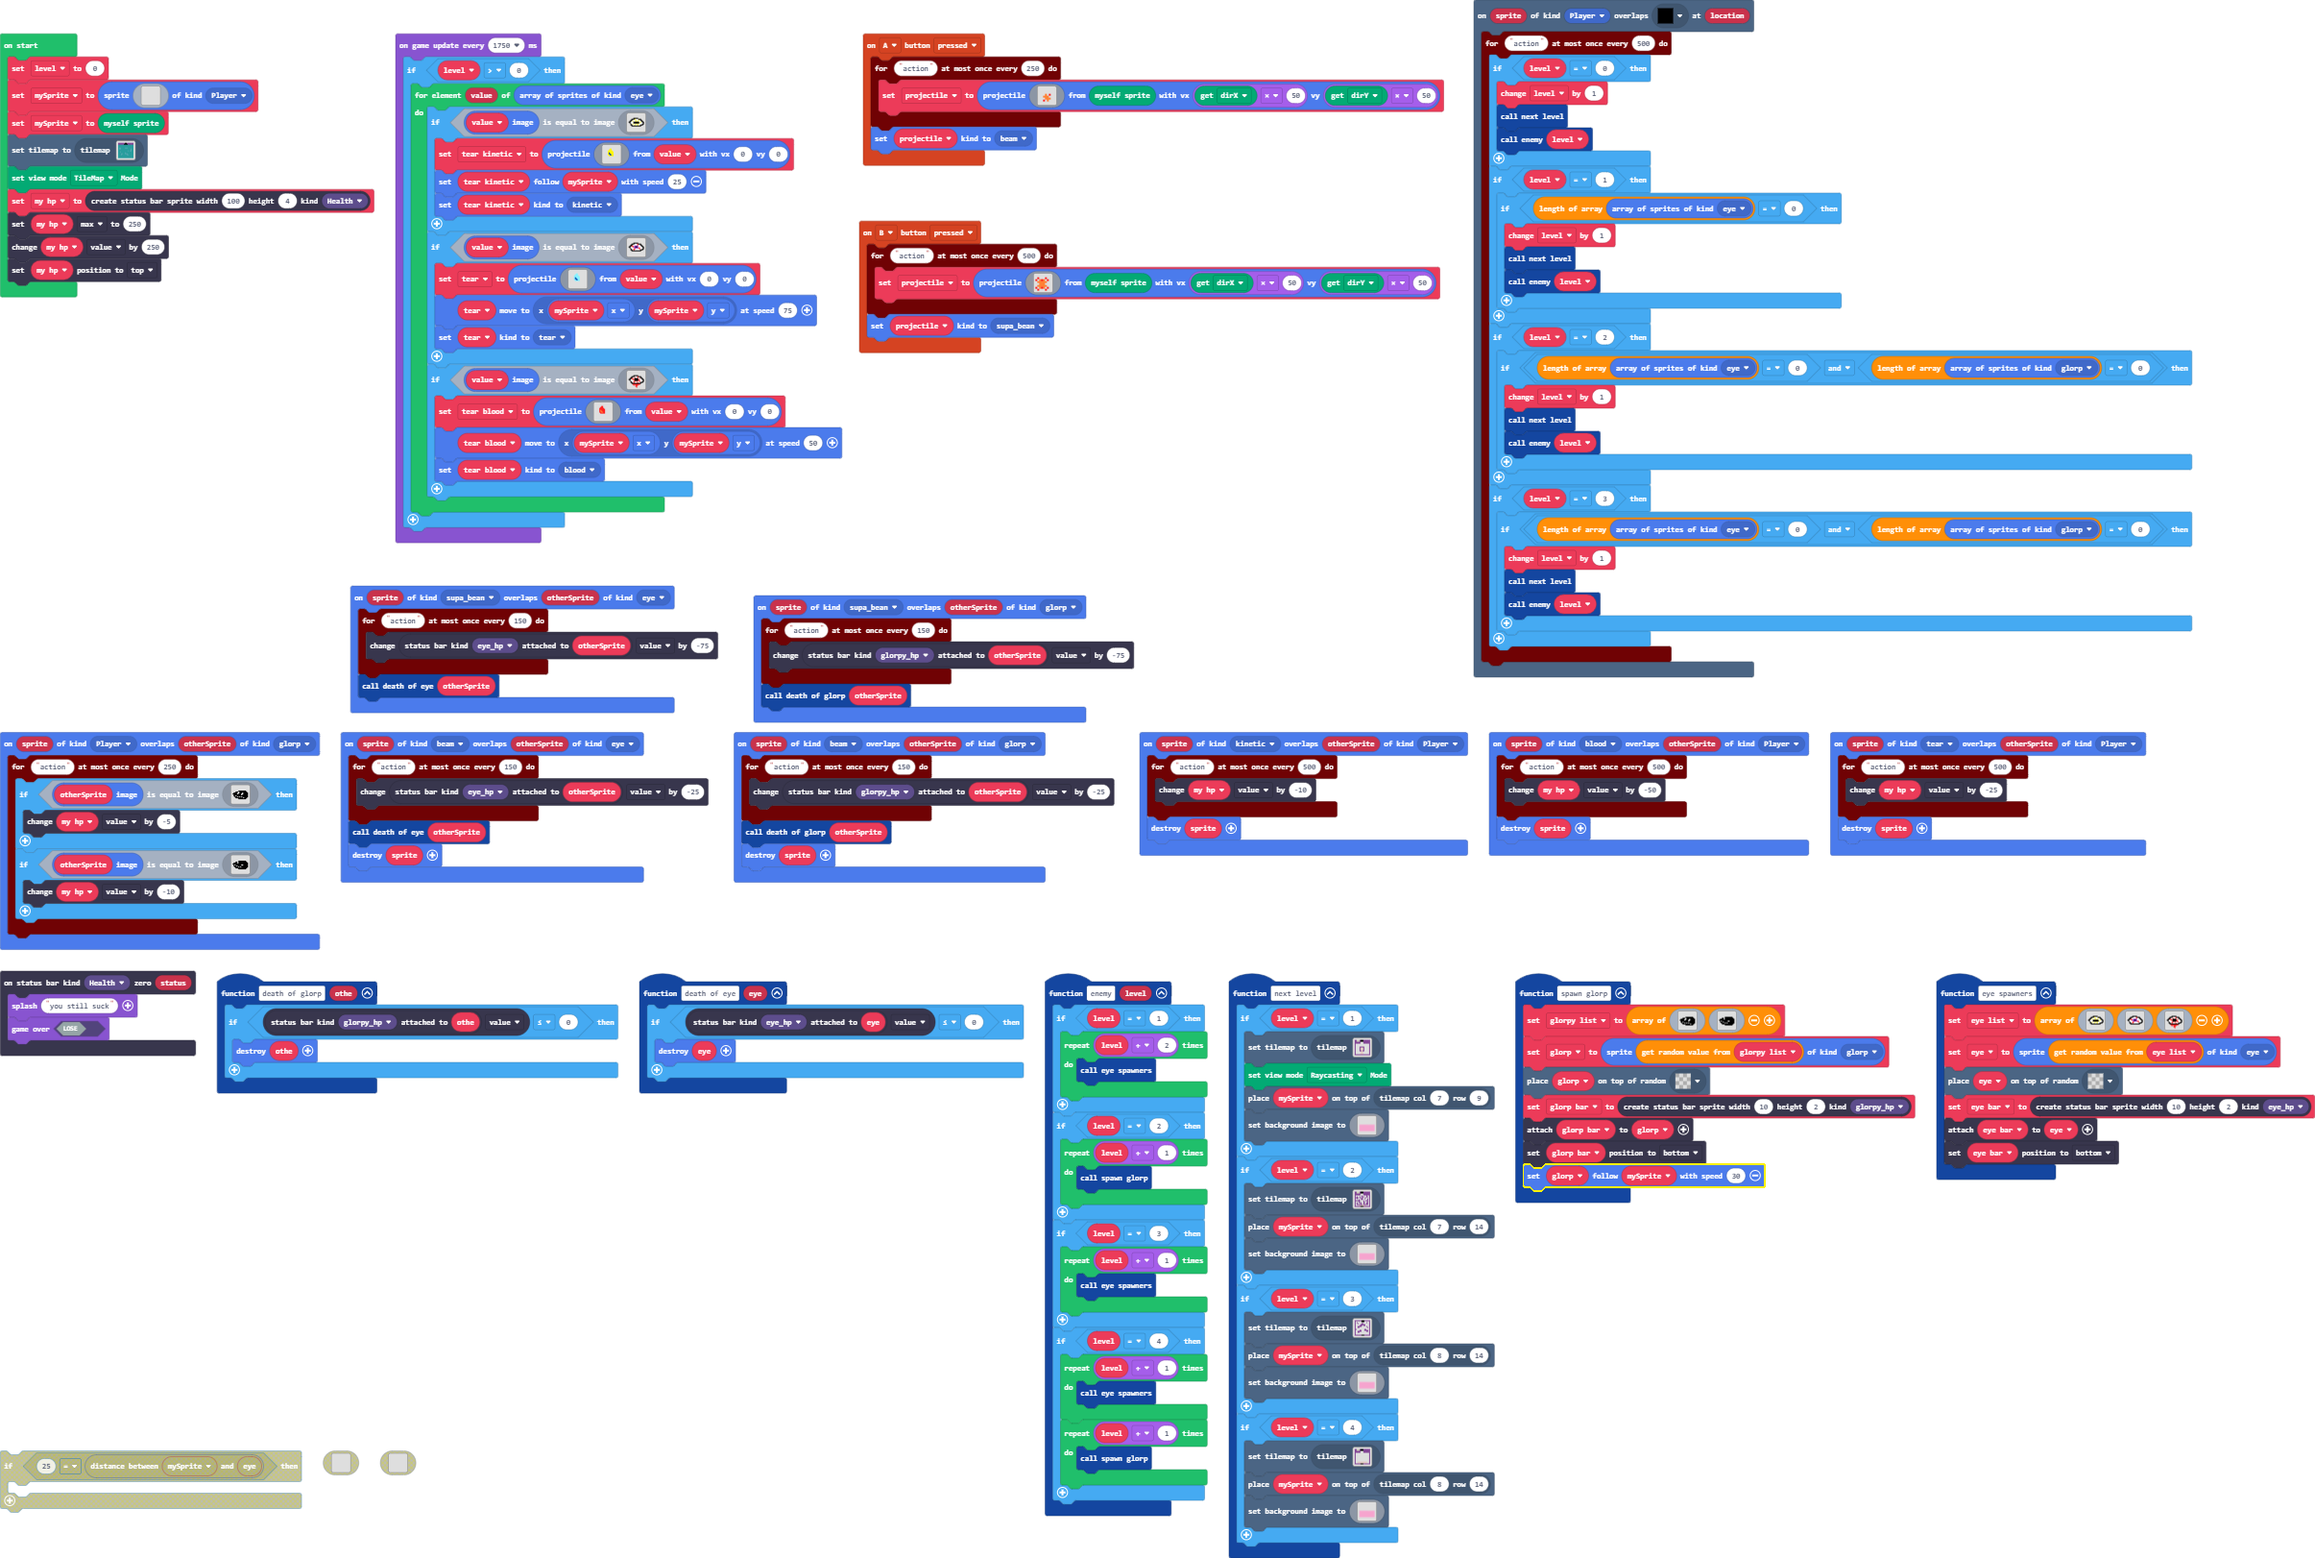
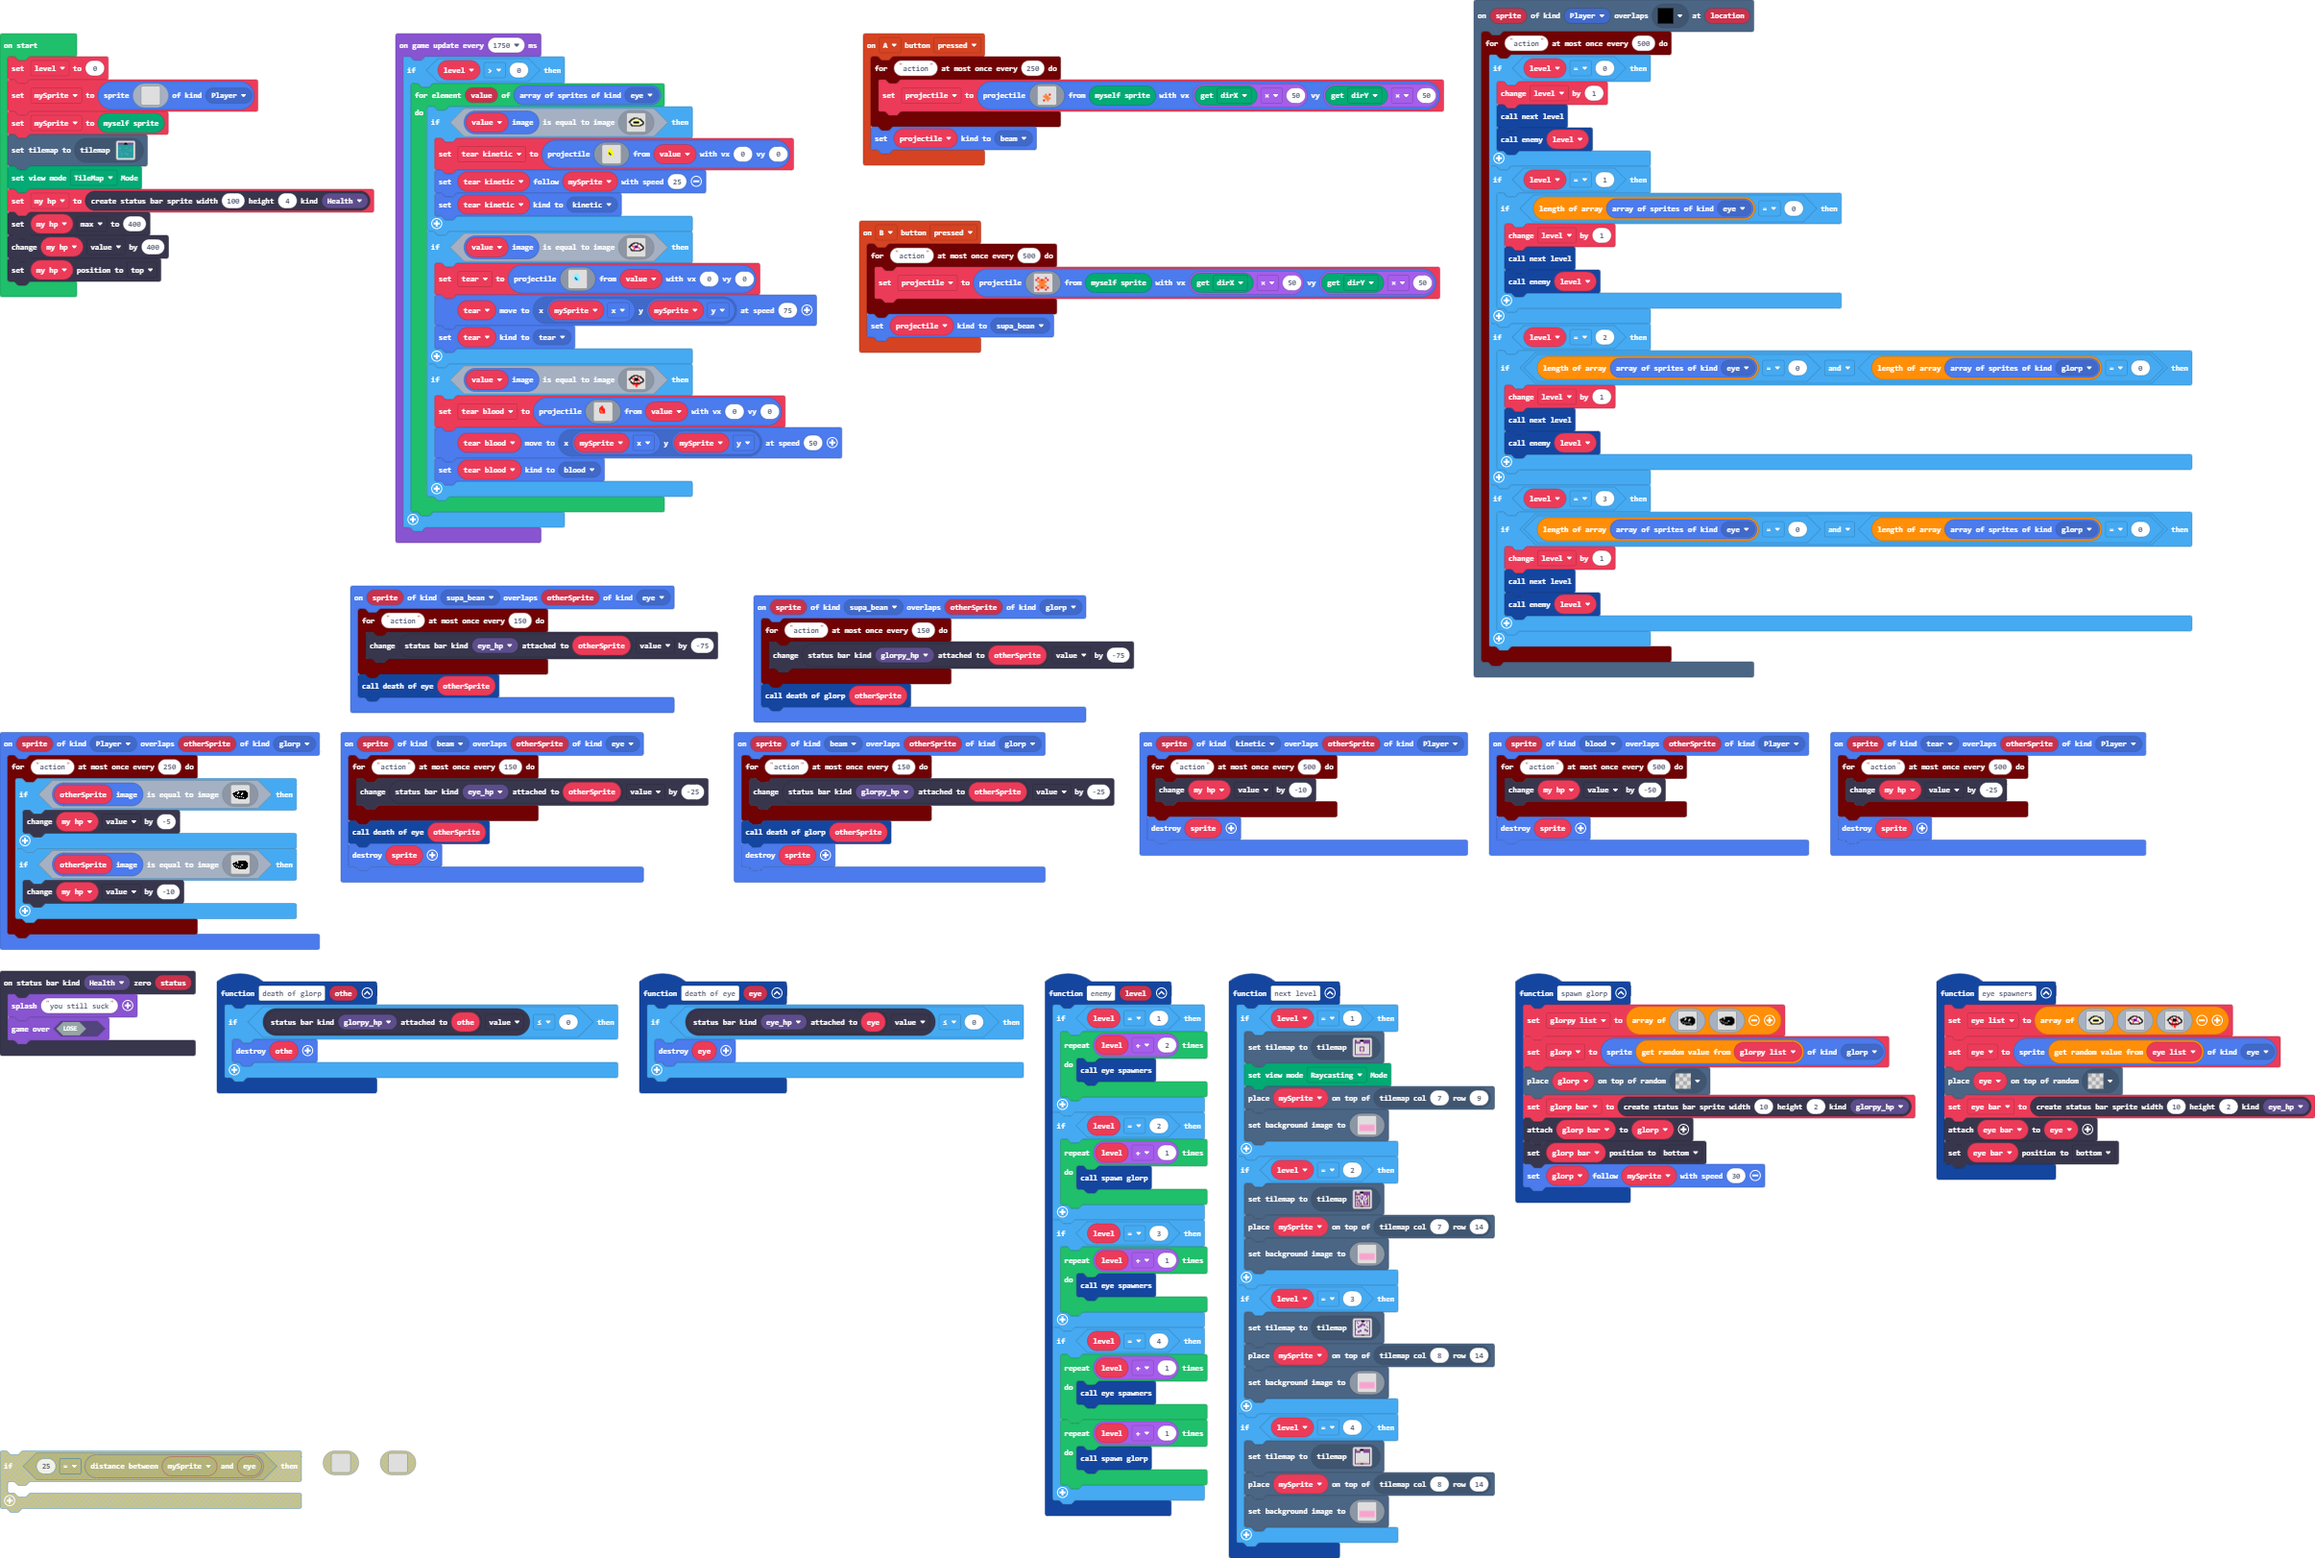
Update main.blocks, main.ts, tilemap.g.jres, tilemap.g.ts

diff --git a/tilemap.g.ts b/tilemap.g.ts
@@ -263,25 +263,6 @@ namespace myTiles {
 2 . . . . . . . . . . . . . . 2 
 2 2 2 2 2 2 2 2 2 2 2 2 2 2 2 2 
 `, [myTiles.transparency16,sprites.dungeon.purpleOuterNorth0,myTiles.tile1,sprites.dungeon.purpleOuterNorth1], TileScale.Sixteen);
-            case "level10":
-            case "level9":return tiles.createTilemap(hex`1000100001010202020103030301010101010101010102020201030303010101010101010101010101010000000101010101010101010101010100000001010101010101010000000000000100000000010000010100010000010001010100000101000101010101000100010000000100000001010001000000010101000100000100010100000001000001000000000001000101010101010100000001000101010001010000000100000000010000000100010100010001010100000101000101000101000100000001000001000001010001010001010101010104010101010100010100000004040404040404040000000101010101010103030301010101010101`, img`
-2 2 2 2 2 2 2 2 2 2 2 2 2 2 2 2 
-2 2 2 2 2 2 . . . 2 2 2 2 2 2 2 
-2 2 2 2 2 2 . . . 2 2 2 2 2 2 2 
-2 2 2 2 2 2 . . . 2 2 2 2 2 2 2 
-2 . . . . . . 2 . . . . 2 . . 2 
-2 . 2 . . 2 . 2 2 2 . . 2 2 . 2 
-2 2 2 2 . 2 . 2 . . . 2 . . . 2 
-2 . 2 . . . 2 2 2 . 2 . . 2 . 2 
-2 . . . 2 . . 2 . . . . . 2 . 2 
-2 2 2 2 2 2 . . . 2 . 2 2 2 . 2 
-2 . . . 2 . . . . 2 . . . 2 . 2 
-2 . 2 . 2 2 2 . . 2 2 . 2 2 . 2 
-2 . 2 . . . 2 . . 2 . . 2 2 . 2 
-2 . 2 2 2 2 2 2 . 2 2 2 2 2 . 2 
-2 . . . . . . . . . . . . . . 2 
-2 2 2 2 2 2 2 2 2 2 2 2 2 2 2 2 
-`, [myTiles.transparency16,sprites.dungeon.purpleOuterNorth1,sprites.castle.tilePath4,myTiles.tile1,sprites.castle.tilePath5], TileScale.Sixteen);
             case "level0":
             case "level4":return tiles.createTilemap(hex`1000100001010101010102030302010101010101010101010101030303030101010101010404040404040404040404040404040404040404040404040404040404040404040404040404040404040404040404040405050404040405050504040404040404050504040404040404040404050404040404040404040404040404040504040404040404040404040405040505040404040504040404040404040404040404040404040404040504040404040404040404040505040405050504040404040404040405040404040405050404040404040404040404040404040404040404040404040404040404040404040404040404040404040404040404040404040404`, img`
 2 2 2 2 2 2 2 2 2 2 2 2 2 2 2 2 
@@ -374,6 +355,25 @@ namespace myTiles {
 2 . . . . . . . . . . . . . . 2 
 2 . . . . . . . . . . . . . . 2 
 2 . . . . . . . . . . . . . . 2 
+2 . . . . . . . . . . . . . . 2 
+2 2 2 2 2 2 2 2 2 2 2 2 2 2 2 2 
+`, [myTiles.transparency16,sprites.dungeon.purpleOuterNorth1,sprites.castle.tilePath4,myTiles.tile1,sprites.castle.tilePath5], TileScale.Sixteen);
+            case "level10":
+            case "level9":return tiles.createTilemap(hex`1000100001010202020103030301010101010101010102020201030303010101010101010101010101010000000101010101010101010101010100000001010101010101010404040000000100000000010404010104010400010401010100000101040101010101000104010000000104040401010401040000010101000100000104010104040401000001000000000001040101010101010100000001000101010401010404040100000000010004040104010104010401010100000101040101040101040104040401000001040401010401010401010101010104010101010104010104040404040404040404040404040101010101010103030301010101010101`, img`
+2 2 2 2 2 2 2 2 2 2 2 2 2 2 2 2 
+2 2 2 2 2 2 . . . 2 2 2 2 2 2 2 
+2 2 2 2 2 2 . . . 2 2 2 2 2 2 2 
+2 2 2 2 2 2 . . . 2 2 2 2 2 2 2 
+2 . . . . . . 2 . . . . 2 . . 2 
+2 . 2 . . 2 . 2 2 2 . . 2 2 . 2 
+2 2 2 2 . 2 . 2 . . . 2 . . . 2 
+2 . 2 . . . 2 2 2 . 2 . . 2 . 2 
+2 . . . 2 . . 2 . . . . . 2 . 2 
+2 2 2 2 2 2 . . . 2 . 2 2 2 . 2 
+2 . . . 2 . . . . 2 . . . 2 . 2 
+2 . 2 . 2 2 2 . . 2 2 . 2 2 . 2 
+2 . 2 . . . 2 . . 2 . . 2 2 . 2 
+2 . 2 2 2 2 2 2 . 2 2 2 2 2 . 2 
 2 . . . . . . . . . . . . . . 2 
 2 2 2 2 2 2 2 2 2 2 2 2 2 2 2 2 
 `, [myTiles.transparency16,sprites.dungeon.purpleOuterNorth1,sprites.castle.tilePath4,myTiles.tile1,sprites.castle.tilePath5], TileScale.Sixteen);

diff --git a/main.ts b/main.ts
@@ -689,8 +689,8 @@ mySprite = Render.getRenderSpriteVariable()
 tiles.setCurrentTilemap(tilemap`level0`)
 Render.setViewMode(ViewMode.tilemapView)
 my_hp = statusbars.create(100, 4, StatusBarKind.Health)
-my_hp.max = 250
-my_hp.value += 250
+my_hp.max = 400
+my_hp.value += 400
 my_hp.positionDirection(CollisionDirection.Top)
 game.onUpdateInterval(1750, function () {
     if (level > 0) {
